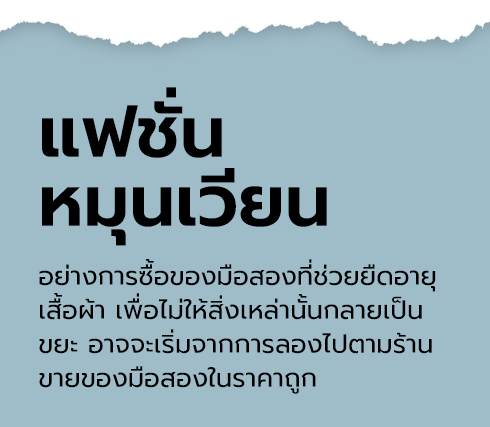
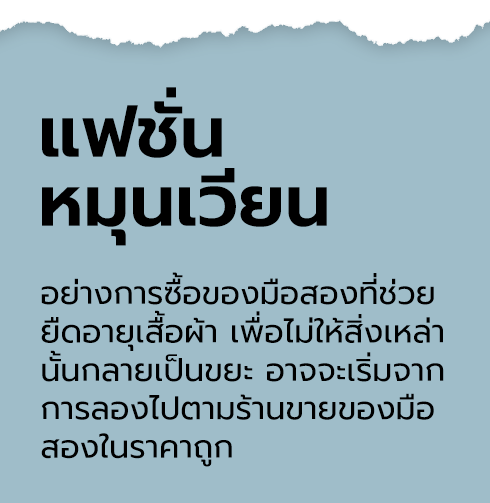
fix font size sec9

Changed region(s): [[0.0612, 0.1522, 0.9184, 0.9438], [0.0, 0.0304, 0.7041, 0.1218], [0.7041, 0.0304, 1.0, 0.1218]]

diff --git a/css/section9.css b/css/section9.css
@@ -32,8 +32,8 @@ body {
   line-height: 10.249vw;
   text-align: center;
   font-weight: 800;
-  text-shadow: -1px 1px 0 #000, 1px 1px 0 #000, 1px -1px 0 #000,
-    -1px -1px 0 #000;
+  text-shadow: -1px 1px 0 #1e1e1e, 1px 1px 0 #1e1e1e, 1px -1px 0 #1e1e1e,
+    -1px -1px 0 #1e1e1e;
 }
 .sec-9-title2 p {
   color: #1e1e1e;
@@ -44,8 +44,8 @@ body {
   line-height: 7.857vw;
   text-align: center;
   font-weight: 800;
-  text-shadow: -1px 1px 0 #000, 1px 1px 0 #000, 1px -1px 0 #000,
-    -1px -1px 0 #000;
+  text-shadow: -1px 1px 0 #1e1e1e, 1px 1px 0 #1e1e1e, 1px -1px 0 #1e1e1e,
+    -1px -1px 0 #1e1e1e;
 }
 .sec-9-hover {
   margin-top: 10px;
@@ -92,7 +92,7 @@ body {
   /* width: 250px; */
   width: 18.302vw;
   height: 100%;
-  transform: translateY(60%);
+  transform: translateY(70%);
   transition: all 0.8s ease-in-out;
 }
 
